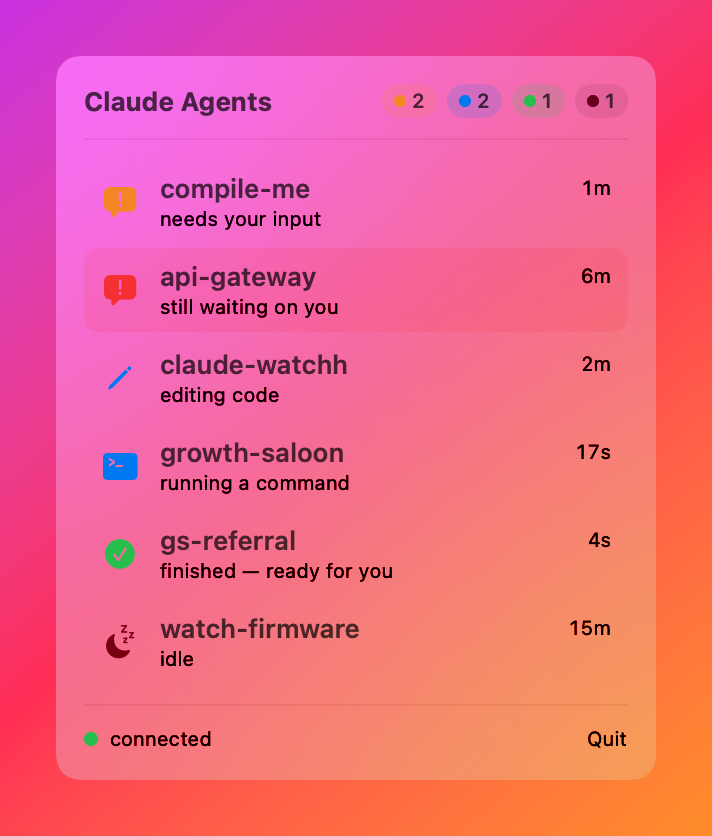
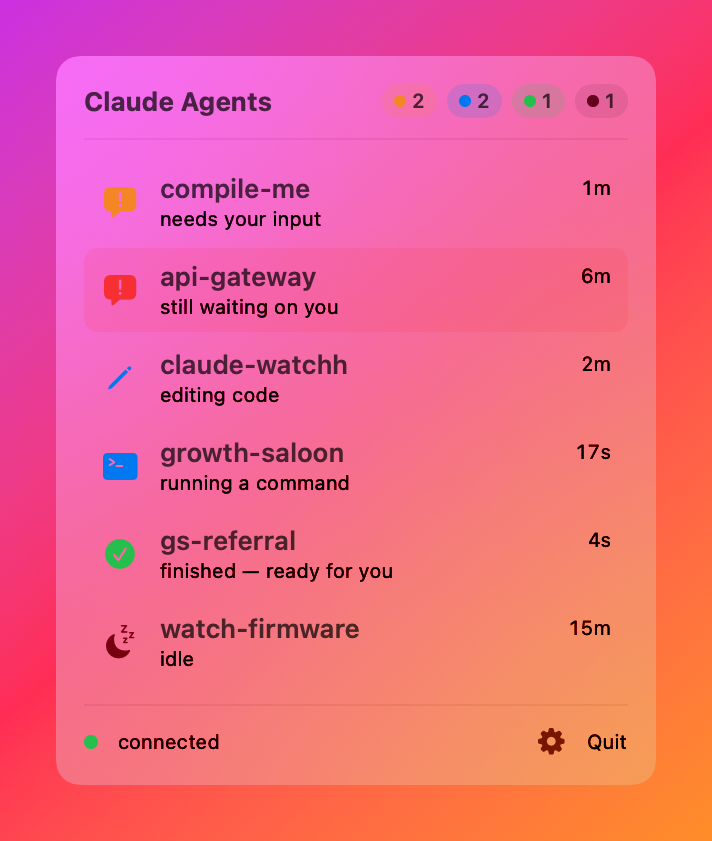
feat(macapp): settings popover (notifications/sound/launch-at-login)
AppSettings persists to UserDefaults, drives Notifier flags, and registers a
login item via SMAppService (best-effort). Gear button in the footer.

diff --git a/macapp/Sources/ClaudeWatchBar/AppSettings.swift b/macapp/Sources/ClaudeWatchBar/AppSettings.swift
@@ -1,0 +1,49 @@
+import Foundation
+import ServiceManagement
+
+/// User preferences, persisted in UserDefaults. Toggling notifications/sound
+/// updates the Notifier; toggling launch-at-login registers the app as a login
+/// item (best-effort — silently no-ops if the OS refuses, e.g. unsigned build).
+@MainActor
+final class AppSettings: ObservableObject {
+    @Published var notificationsEnabled: Bool {
+        didSet {
+            defaults.set(notificationsEnabled, forKey: "notificationsEnabled")
+            Notifier.enabled = notificationsEnabled
+        }
+    }
+    @Published var soundEnabled: Bool {
+        didSet {
+            defaults.set(soundEnabled, forKey: "soundEnabled")
+            Notifier.soundEnabled = soundEnabled
+        }
+    }
+    @Published var launchAtLogin: Bool {
+        didSet { applyLaunchAtLogin(launchAtLogin) }
+    }
+
+    private let defaults = UserDefaults.standard
+
+    init() {
+        notificationsEnabled = defaults.object(forKey: "notificationsEnabled") as? Bool ?? true
+        soundEnabled = defaults.object(forKey: "soundEnabled") as? Bool ?? true
+        launchAtLogin = (SMAppService.mainApp.status == .enabled)
+        // didSet doesn't fire during init, so apply the Notifier flags directly.
+        Notifier.enabled = notificationsEnabled
+        Notifier.soundEnabled = soundEnabled
+    }
+
+    private func applyLaunchAtLogin(_ on: Bool) {
+        do {
+            if on {
+                try SMAppService.mainApp.register()
+            } else {
+                try SMAppService.mainApp.unregister()
+            }
+        } catch {
+            // Reflect what actually happened rather than the requested value.
+            let actual = (SMAppService.mainApp.status == .enabled)
+            if actual != launchAtLogin { launchAtLogin = actual }
+        }
+    }
+}

diff --git a/macapp/Sources/ClaudeWatchBar/PanelView.swift b/macapp/Sources/ClaudeWatchBar/PanelView.swift
@@ -3,9 +3,11 @@ import ClaudeWatchKit
 
 struct PanelView: View {
     @ObservedObject var model: StatusModel
+    @ObservedObject var settings: AppSettings
     /// Offscreen renderers (ImageRenderer) don't draw ScrollView content;
     /// snapshots set this false to render the rows in a plain stack.
     var scrolls = true
+    @State private var showSettings = false
 
     private var agentList: some View {
         VStack(spacing: 2) {
@@ -37,14 +39,26 @@ struct PanelView: View {
             } else {
                 agentList
             }
+            if showSettings {
+                SettingsView(settings: settings)
+                    .transition(.opacity.combined(with: .move(edge: .bottom)))
+            }
             Divider().opacity(0.4)
-            HStack(spacing: 6) {
+            HStack(spacing: 10) {
                 Circle()
                     .fill(model.connected ? Color.green : Color.secondary)
                     .frame(width: 7, height: 7)
                 Text(model.connected ? "connected" : "daemon offline")
                     .font(.caption).foregroundStyle(.secondary)
                 Spacer()
+                Button {
+                    withAnimation(.snappy(duration: 0.2)) { showSettings.toggle() }
+                } label: {
+                    Image(systemName: "gearshape.fill")
+                        .foregroundStyle(showSettings ? .primary : .secondary)
+                }
+                .buttonStyle(.plain)
+                .help("Settings")
                 Button("Quit") { NSApplication.shared.terminate(nil) }
                     .buttonStyle(.plain)
                     .font(.caption)
@@ -110,6 +124,23 @@ struct AgentRow: View {
             if inside && canFocus { NSCursor.pointingHand.push() }
             else { NSCursor.pop() }
         }
+    }
+}
+
+struct SettingsView: View {
+    @ObservedObject var settings: AppSettings
+
+    var body: some View {
+        VStack(alignment: .leading, spacing: 8) {
+            Toggle("Notify on needs-input / done", isOn: $settings.notificationsEnabled)
+            Toggle("Play a sound", isOn: $settings.soundEnabled)
+                .disabled(!settings.notificationsEnabled)
+            Toggle("Launch at login", isOn: $settings.launchAtLogin)
+        }
+        .toggleStyle(.switch)
+        .controlSize(.small)
+        .font(.caption)
+        .padding(.vertical, 4)
     }
 }
 

diff --git a/macapp/Sources/ClaudeWatchBar/ClaudeWatchBarApp.swift b/macapp/Sources/ClaudeWatchBar/ClaudeWatchBarApp.swift
@@ -3,10 +3,11 @@ import ClaudeWatchKit
 
 struct ClaudeWatchBarApp: App {
     @StateObject private var model = StatusModel()
+    @StateObject private var settings = AppSettings()
 
     var body: some Scene {
         MenuBarExtra {
-            PanelView(model: model)
+            PanelView(model: model, settings: settings)
         } label: {
             if model.payload.counts.needsInput > 0 {
                 // Show the count right in the menu bar so you don't have to open it.

diff --git a/macapp/Sources/ClaudeWatchBar/Snapshot.swift b/macapp/Sources/ClaudeWatchBar/Snapshot.swift
@@ -33,7 +33,7 @@ enum Snapshot {
                 colors: [.purple, .pink, .orange],
                 startPoint: .topLeading, endPoint: .bottomTrailing
             )
-            PanelView(model: model, scrolls: false)
+            PanelView(model: model, settings: AppSettings(), scrolls: false)
                 .clipShape(RoundedRectangle(cornerRadius: 12))
                 .padding(28)
         }

diff --git a/README.md b/README.md
@@ -36,6 +36,7 @@ What it does:
 - **Stuck detection**: an agent waiting on you 5+ minutes turns red so you don't forget it.
 - **Click to focus**: click any row to jump to that agent's terminal tab (iTerm/Terminal by tty; VS Code is brought forward).
 - **Animation**: running agents shimmer, waiting agents pulse.
+- **Settings** (gear in the footer): toggle notifications, sound, and launch-at-login.
 
 How it works: the app polls `GET http://127.0.0.1:7459/status` once per second and
 shows "daemon offline" when it can't reach the daemon. The daemon serves this